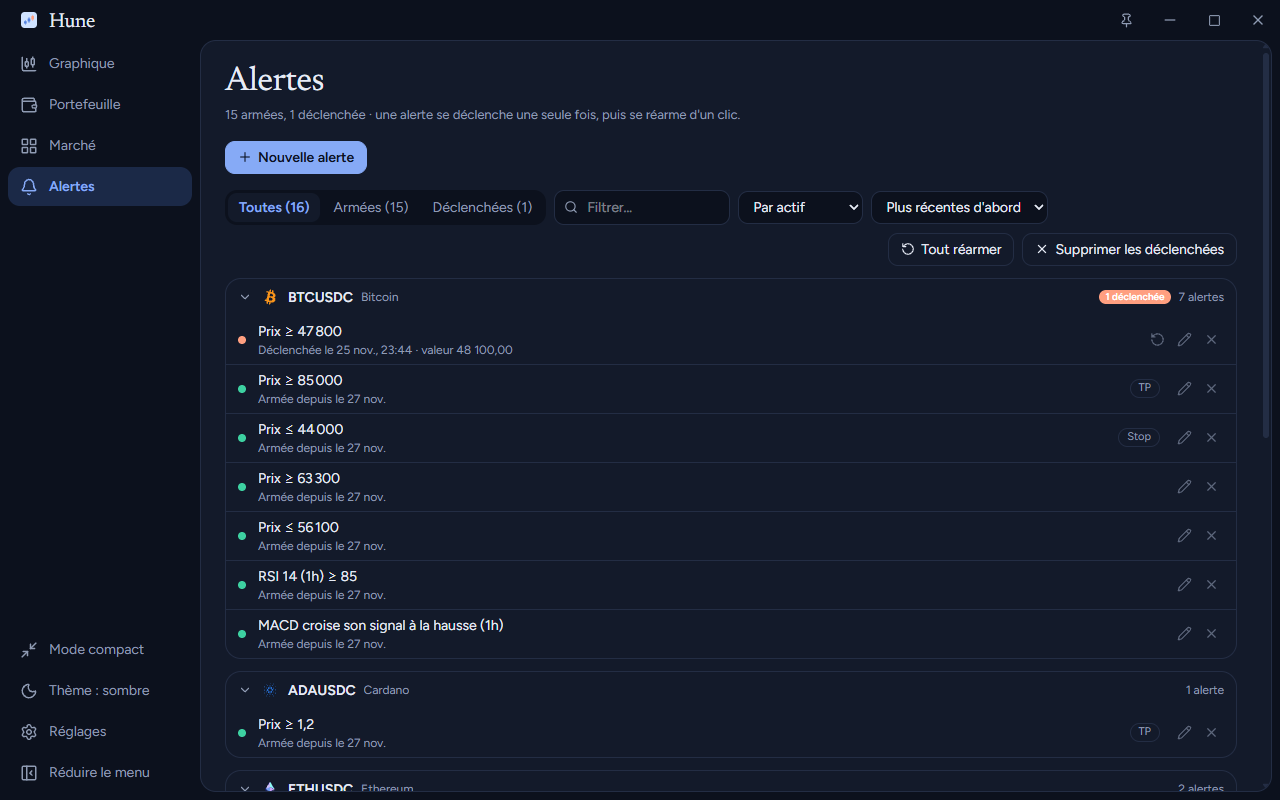
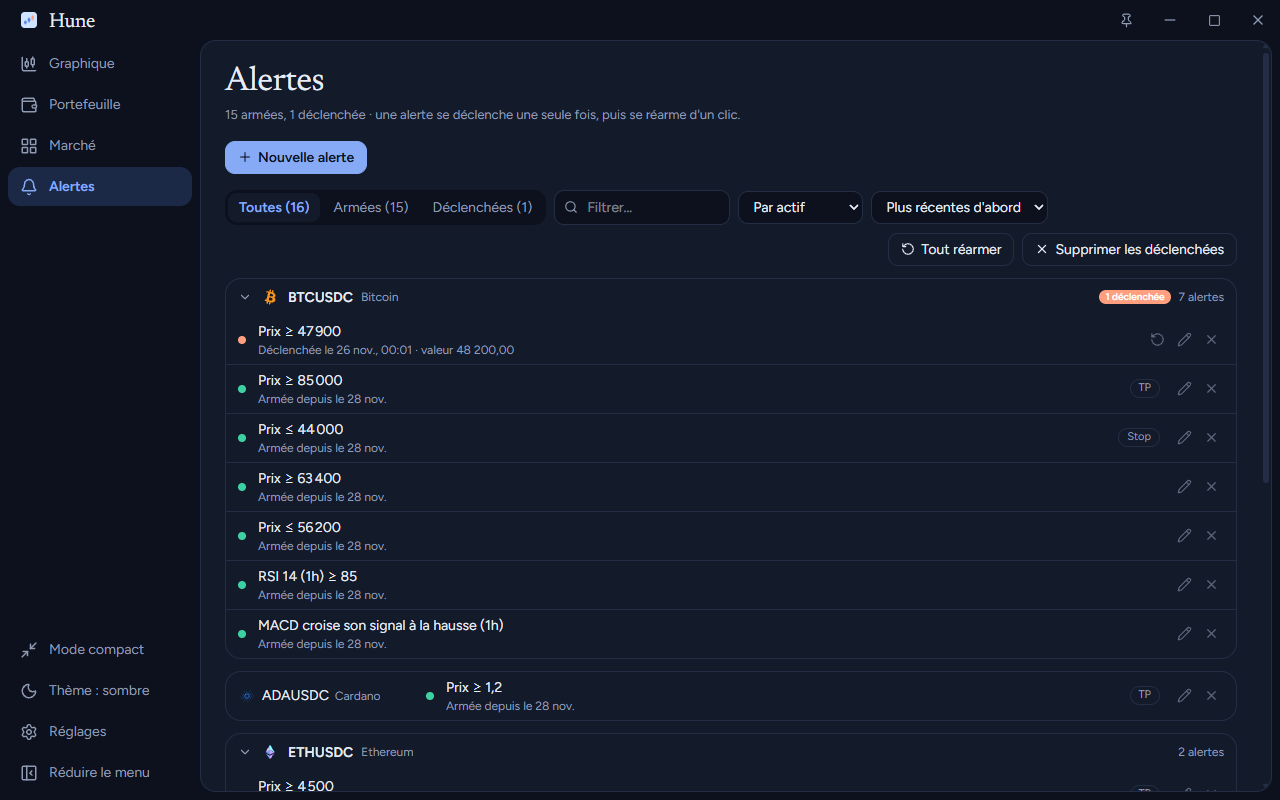
0.16.1 : liste sans chevauchement, noms d'indices, alertes plus compactes

diff --git a/src/alertes/panneau.tsx b/src/alertes/panneau.tsx
@@ -427,7 +427,7 @@ export function PanneauAlertes({ actifs, actifParDefaut, categorieDe, alertes, s
           const nbDecl = g.alertes.filter((a) => a.statut === "declenchee").length;
           return (
             <section key={g.cle || "tout"} className="overflow-hidden rounded-2xl border border-ligne bg-carte">
-              {g.cle && (
+              {g.cle && g.alertes.length > 1 && (
                 <button className="flex w-full items-center gap-2 bg-transparent px-3 py-2 text-left text-texte hover:bg-fond" onClick={() => setRepliees(replie ? repliees.filter((c) => c !== g.cle) : [...repliees, g.cle])}>
                   {replie ? <ChevronRight size={14} className="text-doux" /> : <ChevronDown size={14} className="text-doux" />}
                   {g.actif && <IconeActif actif={g.actif} taille={20} />}
@@ -439,17 +439,18 @@ export function PanneauAlertes({ actifs, actifParDefaut, categorieDe, alertes, s
                   </span>
                 </button>
               )}
-              {!replie && (
+              {(!replie || g.alertes.length === 1) && (
                 <ul className="m-0 list-none p-0">
                   {g.alertes.map((a) => {
                     const o = origine(a);
                     const declenchee = a.statut === "declenchee";
                     return (
                       <li key={a.id} className={`group flex items-center gap-3 border-t border-ligne px-3 py-1.5 first:border-t-0 hover:bg-fond/60 ${g.cle ? "" : "first:border-t-0"}`}>
-                        {groupement !== "actif" && (
-                          <button className="flex w-28 shrink-0 items-center gap-1.5 bg-transparent p-0 text-left font-semibold text-texte hover:text-accent" title="Voir le graphique" onClick={() => surOuvrirActif(cleActif(a.actif))}>
+                        {(groupement !== "actif" || g.alertes.length === 1) && (
+                          <button className="flex w-44 shrink-0 items-center gap-1.5 bg-transparent p-0 text-left font-semibold text-texte hover:text-accent" title="Voir le graphique" onClick={() => surOuvrirActif(cleActif(a.actif))}>
                             <IconeActif actif={a.actif} taille={18} />
                             <span className="truncate">{symboleAffiche(a.actif)}</span>
+                            {groupement === "actif" && <span className="truncate text-xs font-normal text-doux">{nomAffiche(a.actif)}</span>}
                           </button>
                         )}
                         <span className={`h-2 w-2 shrink-0 rounded-full ${declenchee ? "bg-alerte" : "bg-hausse"}`} title={declenchee ? "Déclenchée" : "Armée"} />

diff --git a/src/watchlist.tsx b/src/watchlist.tsx
@@ -208,7 +208,7 @@ export function Watchlist(p: Props) {
   const locaux = requete ? tous.filter((a) => a.symbole.toLowerCase().includes(requete) || a.nom.toLowerCase().includes(requete)).slice(0, 6) : [];
 
   return (
-    <aside className={`flex shrink-0 flex-col bg-carte ${p.pleineLargeur ? "min-h-0 flex-1" : `${p.afficherCourbes ? "w-[22rem]" : "w-72"} border-r border-ligne`}`}>
+    <aside className={`flex shrink-0 flex-col bg-carte ${p.pleineLargeur ? "min-h-0 flex-1" : `${p.afficherCourbes ? "w-[22rem]" : "w-80"} border-r border-ligne`}`}>
       <div className="relative border-b border-ligne p-3">
         <Search size={15} className="pointer-events-none absolute left-[25px] top-[25px] text-doux" aria-hidden />
         <input
@@ -378,11 +378,11 @@ export function Watchlist(p: Props) {
                         title={p.uneLigne ? `${nomAffiche(a)} (${symboleAffiche(a)})` : undefined}
                         className={`group relative flex cursor-pointer select-none items-center justify-between border-b border-ligne px-3 hover:bg-fond/80 ${p.uneLigne ? "py-1" : "py-2"} ${p.selection === cle ? "bg-accent-doux shadow-[inset_3px_0_0_var(--color-accent)]" : ""} ${glisse?.cle === cle ? "opacity-40" : ""} ${glisse?.cible?.cle === cle && glisse.cle !== cle ? (glisse.cible.apres ? "!border-b-2 !border-b-accent" : "shadow-[inset_0_2px_0_var(--color-accent)]") : ""}`}
                       >
-                        <div className="flex min-w-0 flex-1 items-center gap-2.5 pr-1">
+                        <div className="flex min-w-0 flex-1 items-center gap-2.5 overflow-hidden pr-2">
                         <IconeActif actif={a} taille={p.uneLigne ? 18 : 28} />
-                        <div className="min-w-0">
-                          <div className="flex items-center gap-1.5 whitespace-nowrap font-semibold">
-                            {symboleAffiche(a)}
+                        <div className="min-w-0 flex-1">
+                          <div className="flex min-w-0 items-center gap-1.5 whitespace-nowrap font-semibold">
+                            <span className="truncate">{symboleAffiche(a)}</span>
                             {nbAlertes > 0 && (
                               <span title={`${nbAlertes} alerte${nbAlertes > 1 ? "s" : ""} déclenchée${nbAlertes > 1 ? "s" : ""}`} className="inline-flex items-center gap-0.5 rounded-full bg-alerte px-1.5 text-[10px] font-semibold text-white">
                                 <Bell size={10} /> {nbAlertes}

diff --git a/src/noms-affiches.ts b/src/noms-affiches.ts
@@ -35,12 +35,13 @@ const NOMS: Record<string, string> = {
   "KC=F": "Café",
 };
 
-/** Symbole affiché : sans le « ^ » des indices, sans le « =F » des matières premières, « EUR/USD » pour « EURUSD=X ». */
+/** Symbole affiché : le nom courant d'un indice (« CAC 40 »), sinon sans le « ^ », sans le « =F » des matières premières, « EUR/USD » pour « EURUSD=X ». */
 export function symboleAffiche(a: Pick<Actif, "source" | "symbole">): string {
   if (a.source !== "yahoo") return a.symbole;
   const s = a.symbole;
-  if (s.startsWith("^")) return s.slice(1);
+  if (s.startsWith("^")) return NOMS[s] ?? s.slice(1);
   if (/^[A-Z]{6}=X$/.test(s)) return `${s.slice(0, 3)}/${s.slice(3, 6)}`;
+  if (/^[A-Z]{3}=X$/.test(s)) return `USD/${s.slice(0, 3)}`; // « EUR=X » : combien d'euros pour un dollar
   if (s.endsWith("=F")) return s.slice(0, -2);
   return s;
 }

diff --git a/src/entete.tsx b/src/entete.tsx
@@ -59,7 +59,8 @@ export function EnteteActif({ actif, cotation, prixLive }: { actif: Actif; cotat
         <h1 className="m-0 flex items-center gap-2 truncate text-[13px] font-medium text-doux">
           <IconeActif actif={actif} taille={22} />
           <span className="truncate">
-            <span className="text-texte">{symboleAffiche(actif)}</span> · {nomAffiche(actif)}
+            <span className="text-texte">{symboleAffiche(actif)}</span>
+            {nomAffiche(actif) !== symboleAffiche(actif) && <> · {nomAffiche(actif)}</>}
           </span>
         </h1>
         <div className="mt-0.5 flex items-baseline gap-3">

diff --git a/src/noms-affiches.test.ts b/src/noms-affiches.test.ts
@@ -5,7 +5,9 @@ const y = (symbole: string) => ({ source: "yahoo" as const, symbole });
 
 describe("noms affichés", () => {
   it("retire les codes techniques des symboles", () => {
-    expect(symboleAffiche(y("^FCHI"))).toBe("FCHI");
+    expect(symboleAffiche(y("^FCHI"))).toBe("CAC 40");
+    expect(symboleAffiche(y("^INCONNU"))).toBe("INCONNU");
+    expect(symboleAffiche(y("EUR=X"))).toBe("USD/EUR");
     expect(symboleAffiche(y("GC=F"))).toBe("GC");
     expect(symboleAffiche(y("EURUSD=X"))).toBe("EUR/USD");
     expect(symboleAffiche(y("MC.PA"))).toBe("MC.PA");

diff --git a/src/alertes/moteur.ts b/src/alertes/moteur.ts
@@ -157,7 +157,7 @@ export function decrire(c: Condition): string {
   const nomMoyenne = (m: Moyenne) => m.toUpperCase();
   switch (c.type) {
     case "prix":
-      return `Prix ${c.sens === "au-dessus" ? "≥" : "≤"} ${n(c.seuil)}`;
+      return `Prix ${c.sens === "au-dessus" ? "≥" : "≤"} ${n(Number(c.seuil.toPrecision(6)))}`; // 6 chiffres : un objectif converti d'une autre devise n'affiche pas 59,982862
     case "variation":
       return `${c.sens === "hausse" ? "Hausse" : "Baisse"} d'au moins ${n(c.pct)} % sur ${c.periode}`;
     case "rsi":

diff --git a/CHANGELOG.md b/CHANGELOG.md
@@ -3,6 +3,13 @@
 Toutes les évolutions notables de Hune. Format inspiré de [Keep a Changelog](https://keepachangelog.com/fr/1.1.0/) ; les versions suivent [SemVer](https://semver.org/lang/fr/).
 Le texte de chaque version sert de notes pour la release GitHub (`scripts/publier.ps1`).
 
+## [0.16.1] - 2026-11-28
+
+### Corrigé
+- Liste d'actifs : le prix d'un jeton à très petit cours (0,00000353) ne chevauche plus le symbole ; la liste est un peu plus large et le symbole se tronque au lieu de déborder.
+- Les indices s'affichent par leur nom courant (« CAC 40 », « S&P 500 », « Nikkei 225 ») et « EUR=X » devient « USD/EUR ».
+- Alertes : un objectif converti d'une autre devise n'affiche plus des décimales parasites (« Prix ≥ 59,9829 » au lieu de « 59,982862 ») ; un actif qui n'a qu'une alerte tient sur une seule ligne, ce qui raccourcit nettement la liste.
+
 ## [0.16.0] - 2026-11-28
 
 ### Ajouté
